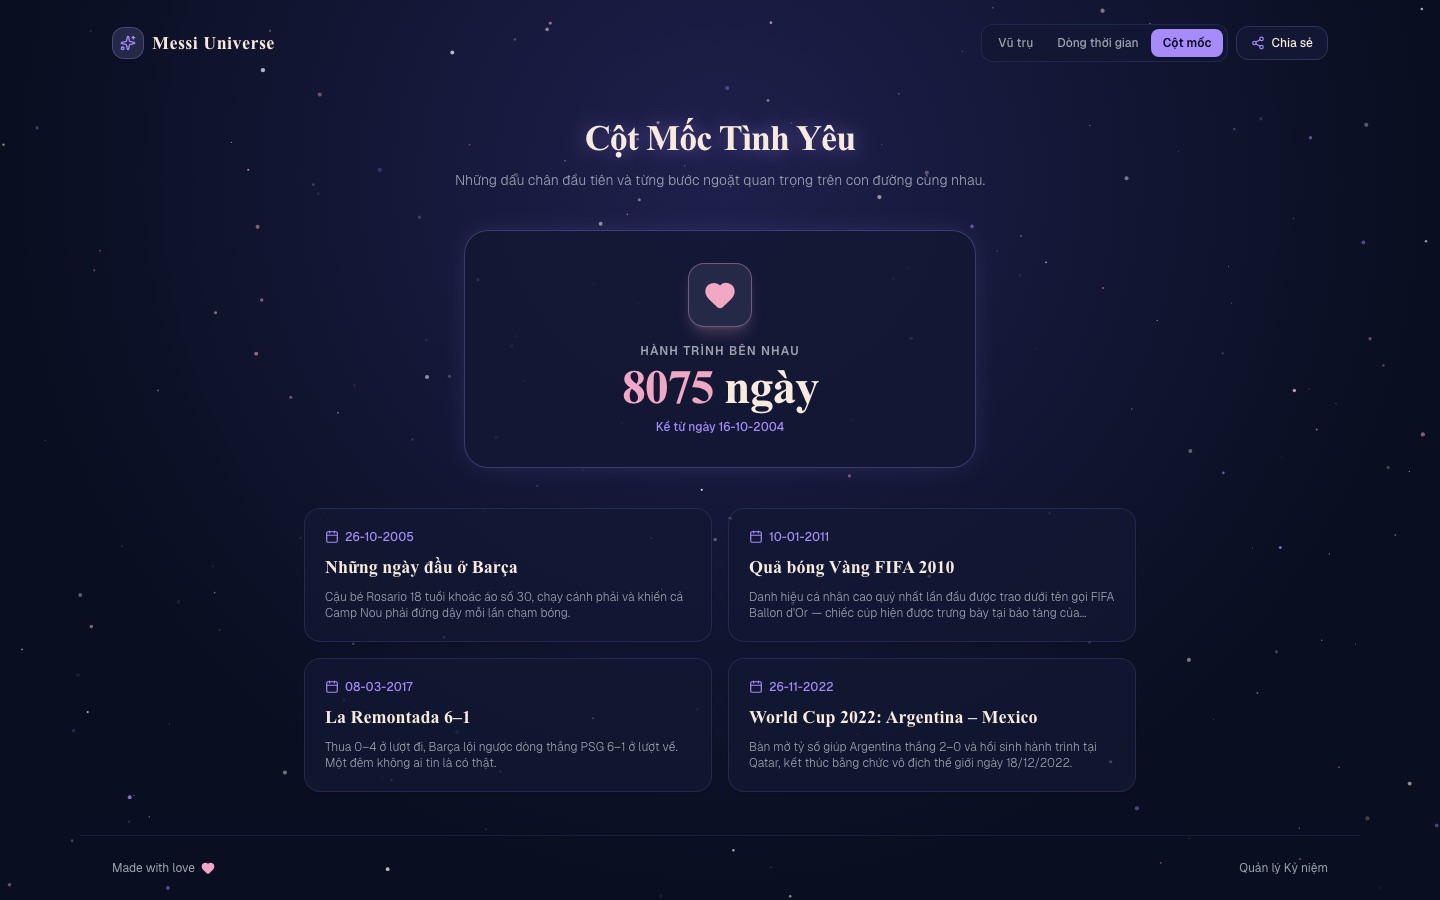
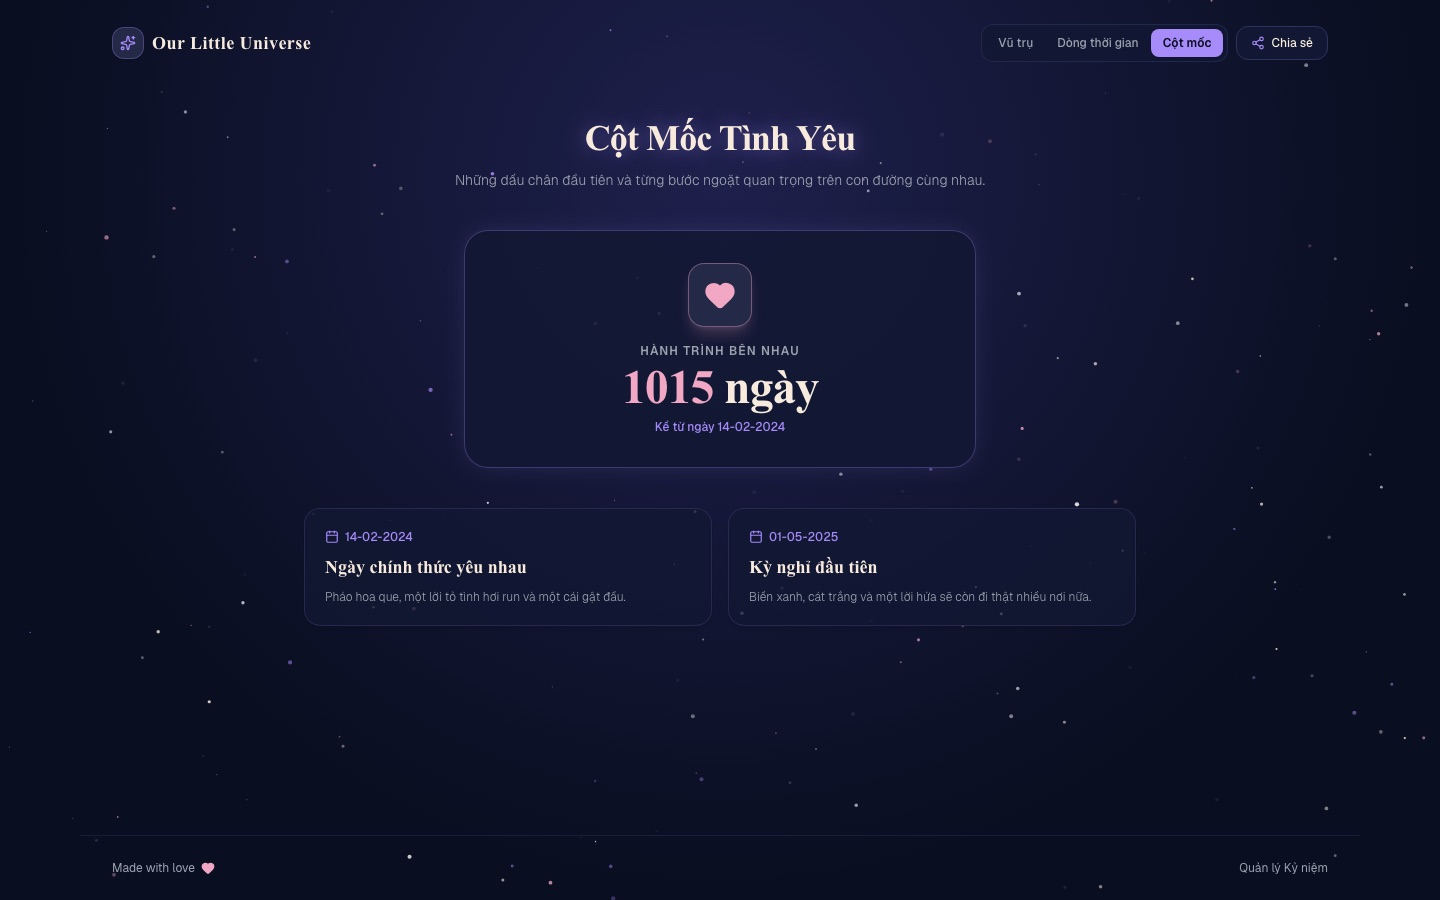
Thay dữ liệu demo bằng dữ liệu mẫu cặp đôi

diff --git a/src/lib/supabase/local-mock.ts b/src/lib/supabase/local-mock.ts
@@ -22,7 +22,7 @@ export function readStore(): LocalStoreData {
     console.error('Error reading local_store.json:', err);
   }
   return {
-    users: [{ id: 'u-demo-001', email: 'demo@universe.love', username: 'demo', password: 'messi10' }],
+    users: [{ id: 'u-demo-001', email: 'demo@universe.love', username: 'demo', password: 'demo1234' }],
     spaces: [
       {
         id: 'a0000000-0000-0000-0000-000000000001',

diff --git a/src/app/page.tsx b/src/app/page.tsx
@@ -63,7 +63,7 @@ export default async function HomePage() {
   // 5. Couple names display
   // eslint-disable-next-line @typescript-eslint/no-explicit-any
   const themeData = (space?.theme as any) || {};
-  const coupleNames = themeData.coupleNames || 'Leo Messi ♡ Football';
+  const coupleNames = themeData.coupleNames || 'Minh ♡ Lan';
   const musicUrl = themeData.musicUrl || null;
 
   return (

diff --git a/src/components/public/CosmicGalaxy3D.tsx b/src/components/public/CosmicGalaxy3D.tsx
@@ -604,7 +604,7 @@ export default function CosmicGalaxy3D({
   tagline = 'Một vũ trụ nhỏ, lưu giữ những vì sao ký ức của riêng chúng mình',
   daysTogether = null,
   relationshipStartDate = null,
-  coupleNames = 'Leo Messi ♡ Football',
+  coupleNames = 'Minh ♡ Lan',
   isMember = true,
   musicUrl = null,
   config = {},

diff --git a/README.md b/README.md
@@ -2,7 +2,7 @@
 
 Website lưu giữ kỷ niệm dưới dạng **thiên hà 3D** và **dòng thời gian**. Mỗi kỷ niệm là một ngôi sao: có tiêu đề, ngày, địa điểm và bộ ảnh. Khách xem trang công khai không cần đăng nhập; chủ không gian (và tối đa một người cùng chỉnh sửa) quản lý nội dung trong trang **Studio**.
 
-Dữ liệu demo đi kèm repo là các khoảnh khắc trong sự nghiệp của **Lionel Messi**.
+Repo kèm sẵn **dữ liệu mẫu** của một cặp đôi hư cấu (Minh ♡ Lan) để chạy thử ngay.
 
 ## 📸 Ảnh ứng dụng
 
@@ -54,7 +54,7 @@ Mở <http://localhost:3000>.
 
 | Tài khoản | Mật khẩu |
 |---|---|
-| `demo` | `messi10` |
+| `demo` | `demo1234` |
 
 > Tài khoản này chỉ tồn tại trong `data/local_store.json` để thử nghiệm local. Muốn đổi, sửa trực tiếp mục `users` trong file đó.
 
@@ -72,7 +72,7 @@ rm -rf public/uploads
    1. `supabase/migrations/20261013000001_initial_schema.sql` — bảng, enum, trigger giới hạn 2 thành viên
    2. `supabase/migrations/20261013000002_rls_policies.sql` — Row Level Security, hàm nhận lời mời
    3. `supabase/migrations/20261013000003_storage_policies.sql` — bucket `memories-media` và policy
-   4. *(tuỳ chọn)* `supabase/seed.sql` — nạp dữ liệu demo Messi
+   4. *(tuỳ chọn)* `supabase/seed.sql` — nạp dữ liệu mẫu
 3. Tạo `.env.local` từ mẫu và điền thông tin trong **Project Settings → API**:
 
    ```env
@@ -132,9 +132,9 @@ src/
   middleware.ts         # Bảo vệ /studio
 supabase/
   migrations/           # Schema, RLS, storage policy
-  seed.sql              # Dữ liệu demo Messi cho Supabase
+  seed.sql              # Dữ liệu mẫu cho Supabase
 data/local_store.json   # "Database" của chế độ local mock
-public/demo/messi/      # Ảnh demo
+public/demo/couple/     # Ảnh mẫu
 scripts/bootstrap.mjs   # Tạo owner đầu tiên trên Supabase
 tests/                  # Test Vitest
 ```
